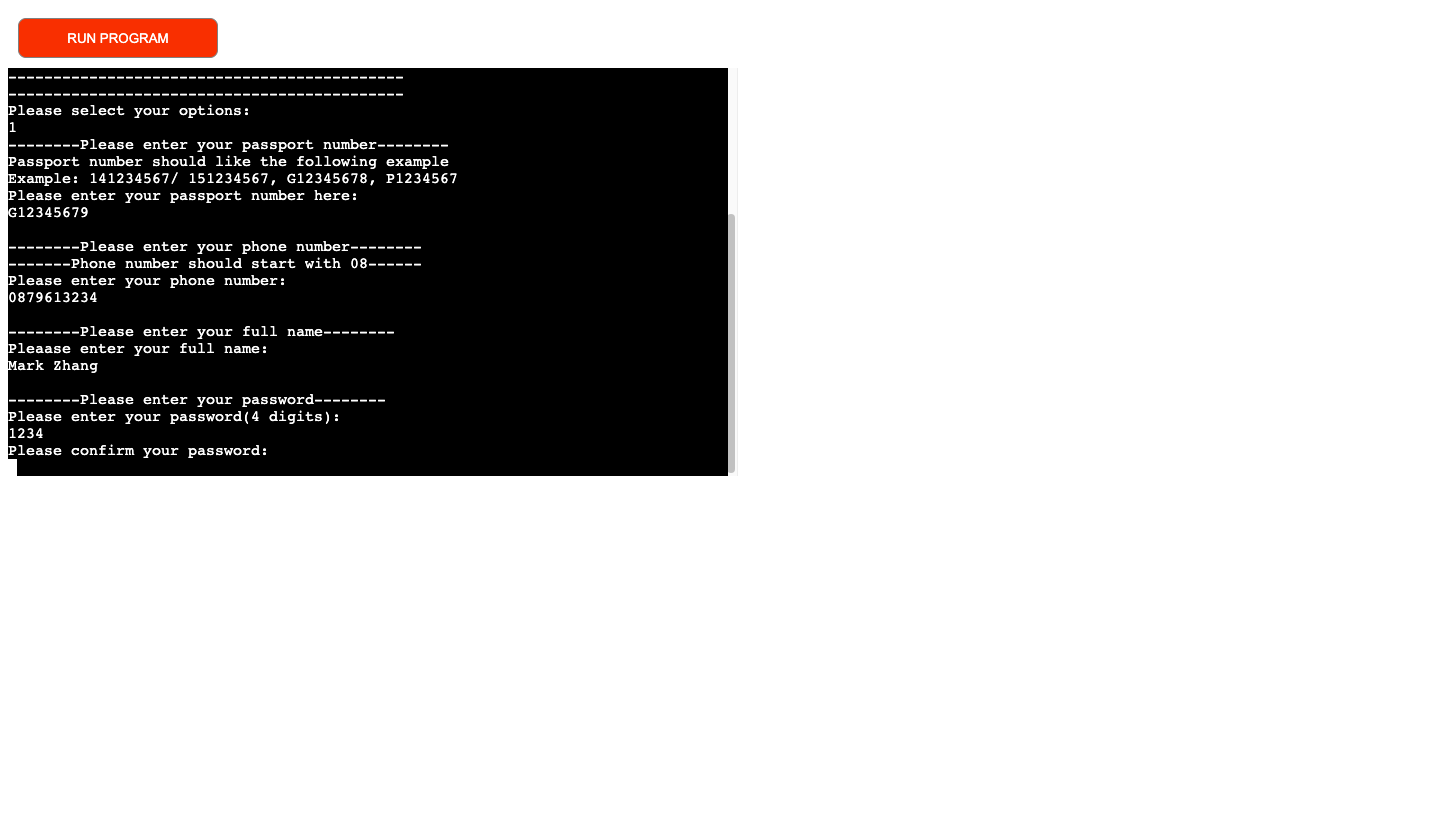
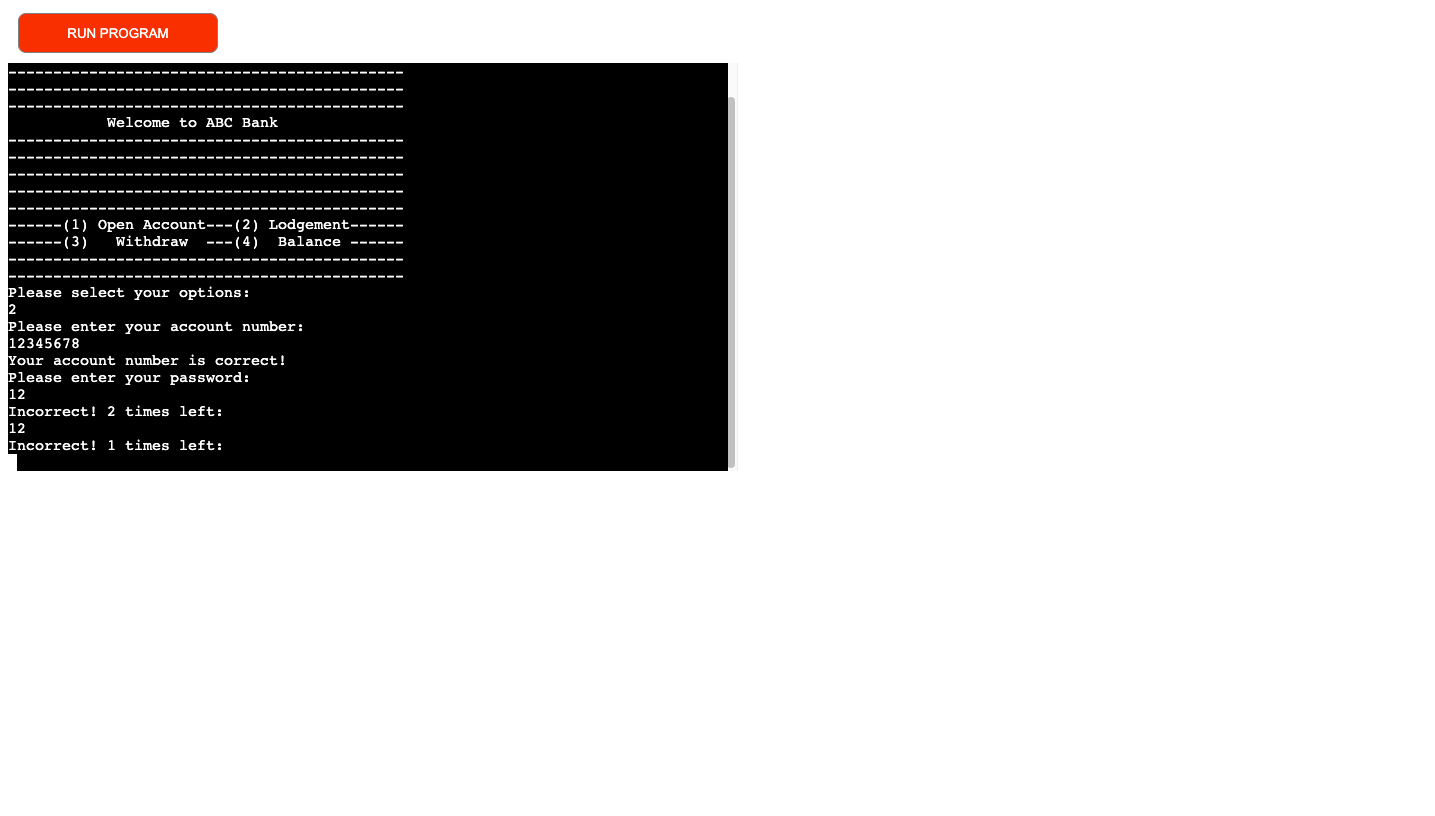
Add password test to lodgement feature

Changed region(s): [[0.0, 0.0, 0.5213, 0.3676], [0.0, 0.3983, 0.5213, 0.5821], [0.4906, 0.1225, 0.5213, 0.2757]]

diff --git a/README.md b/README.md
@@ -112,3 +112,14 @@ When the user wants to lodge the money in their bank account, option 2 is select
 
 ![Correct account number](readme-assets/correct-account-number.png)
 
+- Password is tested when the user's account number is correct. Three are three times to try to input the password. If three times ran out, the account will be blocked and the user can't do anything unless contacting the bank.
+
+![Confirm password](readme-assets/confirm-password.png)
+
+![Blocked account](readme-assets/blocked-account.png)
+
+![Correct password](readme-assets/correct-password.png)
+
+
+
+
